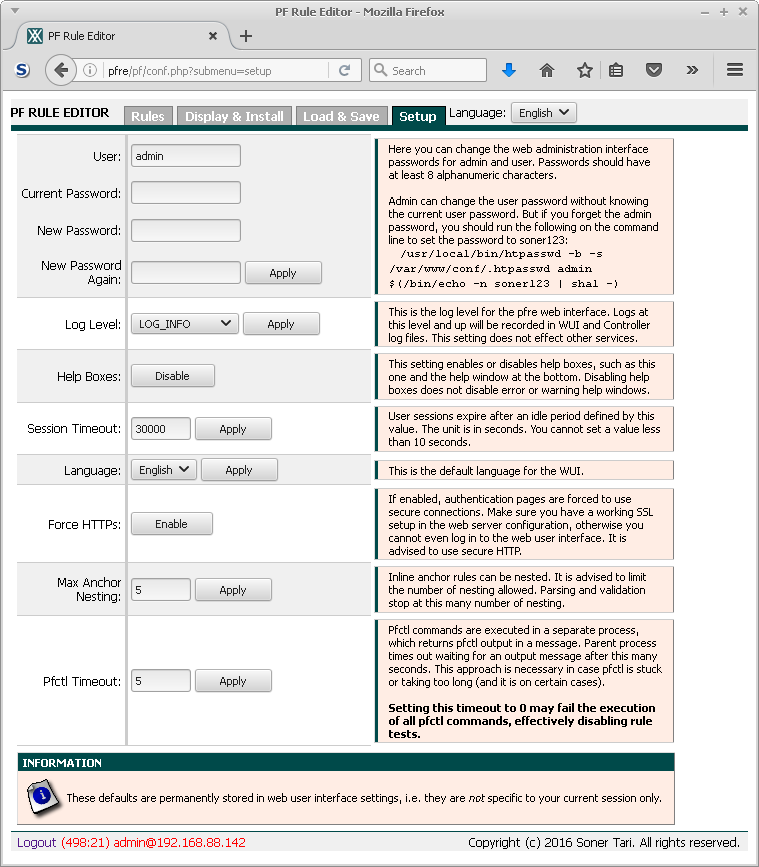
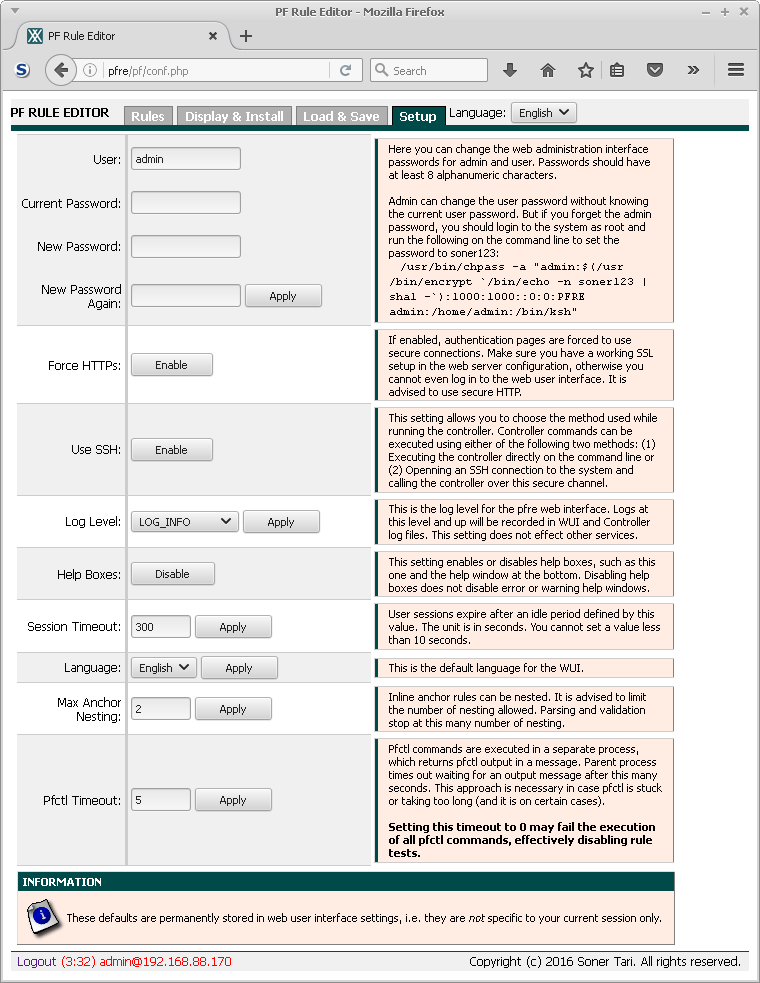
Add option to enable/disable SSH connection Update screenshots

Changed region(s): [[0.0, 0.0, 1.0, 0.9965]]

diff --git a/src/View/pf/setup.php b/src/View/pf/setup.php
@@ -132,6 +132,16 @@ if (count($_POST)) {
 			header('Location: http://'.filter_input(INPUT_SERVER, 'SERVER_ADDR').filter_input(INPUT_SERVER, 'REQUEST_URI'));
 			exit;
 		}
+		else if (filter_has_var(INPUT_POST, 'DisableUseSSH')) {
+			if ($View->Controller($Output, 'SetUseSSH', 'FALSE')) {
+				pfrewui_syslog(LOG_INFO, __FILE__, __FUNCTION__, __LINE__, 'Disable UseSSH');
+			}
+		}
+		else if (filter_has_var(INPUT_POST, 'EnableUseSSH')) {
+			if ($View->Controller($Output, 'SetUseSSH', 'TRUE')) {
+				pfrewui_syslog(LOG_INFO, __FILE__, __FUNCTION__, __LINE__, 'Enable UseSSH');
+			}
+		}
 		// Reset defaults to their new values
 		require($VIEW_PATH.'/lib/setup.php');
 	}
@@ -183,6 +193,45 @@ Admin can change the user password without knowing the current user password. Bu
 			</td>
 		</tr>
 	</form>
+	<tr class="evenline">
+		<td class="title">
+			<?php echo _TITLE('Force HTTPs').':' ?>
+		</td>
+		<td>
+			<form action="<?php echo filter_input(INPUT_SERVER, 'PHP_SELF') ?>" method="post">
+				<?php
+				$Button= $ForceHTTPs ? 'Disable' : 'Enable';
+				$ButtonValue= $ForceHTTPs ? _CONTROL('Disable') : _CONTROL('Enable');
+				$confirmMsg= str_replace('<BUTTON_VALUE>', $ButtonValue, _CONTROL('Are you sure you want to <BUTTON_VALUE> secure HTTP?'));
+				?>
+				<input type="submit" name="<?php echo $Button ?>ForceHTTPs" value="<?php echo $ButtonValue ?>" onclick="return confirm('<?php echo $confirmMsg ?>')"/>
+			</form>
+		</td>
+		<td class="none">
+			<?php
+			PrintHelpBox(_HELPBOX('If enabled, authentication pages are forced to use secure connections. Make sure you have a working SSL setup in the web server configuration, otherwise you cannot even log in to the web user interface. It is advised to use secure HTTP.'));
+			?>
+		</td>
+	</tr>
+	<tr class="oddline">
+		<td class="title">
+			<?php echo _TITLE('Use SSH').':' ?>
+		</td>
+		<td>
+			<form action="<?php echo filter_input(INPUT_SERVER, 'PHP_SELF') ?>" method="post">
+				<?php
+				$Button= $UseSSH ? 'Disable' : 'Enable';
+				$ButtonValue= $UseSSH ? _CONTROL('Disable') : _CONTROL('Enable');
+				?>
+				<input type="submit" name="<?php echo $Button ?>UseSSH" value="<?php echo $ButtonValue ?>"/>
+			</form>
+		</td>
+		<td class="none">
+			<?php
+			PrintHelpBox(_HELPBOX('This setting allows you to choose the method used while running the controller. Controller commands can be executed using either of the following two methods: (1) Executing the controller directly on the command line or (2) Openning an SSH connection to the system and calling the controller over this secure channel.'));
+			?>
+		</td>
+	</tr>
 	<tr class="evenline">
 		<td class="title">
 			<?php echo _TITLE('Log Level').':' ?>
@@ -270,26 +319,6 @@ Admin can change the user password without knowing the current user password. Bu
 	</tr>
 	<tr class="evenline">
 		<td class="title">
-			<?php echo _TITLE('Force HTTPs').':' ?>
-		</td>
-		<td>
-			<form action="<?php echo filter_input(INPUT_SERVER, 'PHP_SELF') ?>" method="post">
-				<?php
-				$Button= $ForceHTTPs ? 'Disable' : 'Enable';
-				$ButtonValue= $ForceHTTPs ? _CONTROL('Disable') : _CONTROL('Enable');
-				$confirmMsg= str_replace('<BUTTON_VALUE>', $ButtonValue, _CONTROL('Are you sure you want to <BUTTON_VALUE> secure HTTP?'));
-				?>
-				<input type="submit" name="<?php echo $Button ?>ForceHTTPs" value="<?php echo $ButtonValue ?>" onclick="return confirm('<?php echo $confirmMsg ?>')"/>
-			</form>
-		</td>
-		<td class="none">
-			<?php
-			PrintHelpBox(_HELPBOX('If enabled, authentication pages are forced to use secure connections. Make sure you have a working SSL setup in the web server configuration, otherwise you cannot even log in to the web user interface. It is advised to use secure HTTP.'));
-			?>
-		</td>
-	</tr>
-	<tr class="oddline">
-		<td class="title">
 			<?php echo _TITLE('Max Anchor Nesting').':' ?>
 		</td>
 		<td>
@@ -304,7 +333,7 @@ Admin can change the user password without knowing the current user password. Bu
 			?>
 		</td>
 	</tr>
-	<tr class="evenline">
+	<tr class="oddline">
 		<td class="title">
 			<?php echo _TITLE('Pfctl Timeout').':' ?>
 		</td>

diff --git a/src/View/lib/view.php b/src/View/lib/view.php
@@ -37,7 +37,7 @@ class View
 	 */
 	function Controller(&$output)
 	{
-		global $SRC_ROOT;
+		global $SRC_ROOT, $UseSSH;
 
 		$return= FALSE;
 		try {
@@ -54,23 +54,35 @@ class View
 				// Init command output
 				$outputArray= array();
 
-				// Subsequent calls use the encrypted password in the cookie, so we should decrypt it first.
-				$ciphertext_base64= $_COOKIE['passwd'];
-				$ciphertext_dec = base64_decode($ciphertext_base64);
+				$executed= TRUE;
+				if ($UseSSH) {
+					// Subsequent calls use the encrypted password in the cookie, so we should decrypt it first.
+					$ciphertext_base64= $_COOKIE['passwd'];
+					$ciphertext_dec = base64_decode($ciphertext_base64);
 
-				$iv_size = mcrypt_get_iv_size(MCRYPT_RIJNDAEL_128, MCRYPT_MODE_CBC);
-				$iv_dec = substr($ciphertext_dec, 0, $iv_size);
+					$iv_size = mcrypt_get_iv_size(MCRYPT_RIJNDAEL_128, MCRYPT_MODE_CBC);
+					$iv_dec = substr($ciphertext_dec, 0, $iv_size);
 
-				$ciphertext_dec = substr($ciphertext_dec, $iv_size);
+					$ciphertext_dec = substr($ciphertext_dec, $iv_size);
 
-				$passwd = mcrypt_decrypt(MCRYPT_RIJNDAEL_128, $_SESSION['cryptKey'], $ciphertext_dec, MCRYPT_MODE_CBC, $iv_dec);
+					$passwd = mcrypt_decrypt(MCRYPT_RIJNDAEL_128, $_SESSION['cryptKey'], $ciphertext_dec, MCRYPT_MODE_CBC, $iv_dec);
 
-				$ssh = new Net_SSH2(gethostname());
+					$ssh = new Net_SSH2(gethostname());
 
-				if ($ssh->login($_SESSION['USER'], $passwd)) {
+					if ($ssh->login($_SESSION['USER'], $passwd)) {
+						$outputArray[0]= $ssh->exec($cmdline);
+					} else {
+						$msg= 'SSH login failed';
+						pfrewui_syslog(LOG_ERR, __FILE__, __FUNCTION__, __LINE__, "$msg, ($cmdline)");
+						PrintHelpWindow(_NOTICE('FAILED') . ":<br>$msg", 'auto', 'ERROR');
+						$executed= FALSE;
+					}
+				} else {
 					/// @bug http://bugs.php.net/bug.php?id=49847, fixed/closed in SVN on 141009
-					$outputArray[0]= $ssh->exec($cmdline);
+					exec($cmdline, $outputArray);
+				}
  
+				if ($executed) {
 					$output= array();
 					$errorStr= '';
 					$retval= 1;
@@ -100,10 +112,6 @@ class View
 					} else {
 						pfrewui_syslog(LOG_DEBUG, __FILE__, __FUNCTION__, __LINE__, "Shell command exit status: $retval: ($cmdline)");
 					}
-				} else {
-					$msg= 'SSH login failed';
-					pfrewui_syslog(LOG_ERR, __FILE__, __FUNCTION__, __LINE__, "$msg, ($cmdline)");
-					PrintHelpWindow(_NOTICE('FAILED') . ":<br>$msg", 'auto', 'ERROR');
 				}
 			}
 		}

diff --git a/src/Model/model.php b/src/Model/model.php
@@ -74,6 +74,11 @@ class Model
 					'desc'	=>	_('Set force HTTPs'),
 					),
 
+				'SetUseSSH'=>	array(
+					'argv'	=>	array(NAME),
+					'desc'	=>	_('Set use SSH'),
+					),
+
 				'SetMaxAnchorNesting'=>	array(
 					'argv'	=>	array(NUM),
 					'desc'	=>	_('Set max anchor nesting'),
@@ -195,6 +200,20 @@ class Model
 		return $this->SetNVP($ROOT . $TEST_DIR_SRC . '/lib/setup.php', '\$ForceHTTPs', $bool.';');
 	}
 
+	/**
+	 * Enables or disables SSH.
+	 * 
+	 * @param bool $bool TRUE to enable, FALSE otherwise.
+	 * @return bool TRUE on success, FALSE on fail.
+	 */
+	function SetUseSSH($bool)
+	{
+		global $ROOT, $TEST_DIR_SRC;
+		
+		// Append semi-colon to new value, this setting is a PHP line
+		return $this->SetNVP($ROOT . $TEST_DIR_SRC . '/View/lib/setup.php', '\$UseSSH', $bool.';');
+	}
+	
 	/**
 	 * Sets the max number of nested anchors allowed.
 	 * 

diff --git a/src/View/lib/setup.php b/src/View/lib/setup.php
@@ -27,4 +27,7 @@ $ShowHelpBox= TRUE;
 
 /// Default session timeout in secs.
 $SessionTimeout= 300;
+
+/// Whether to run Controller commands over SSH.
+$UseSSH= FALSE;
 ?>
